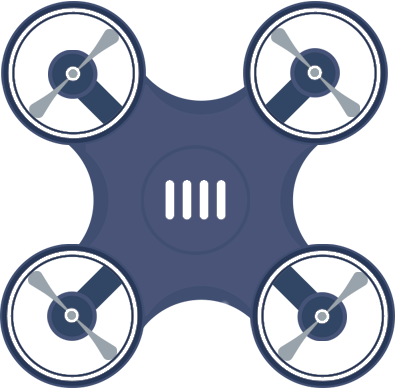
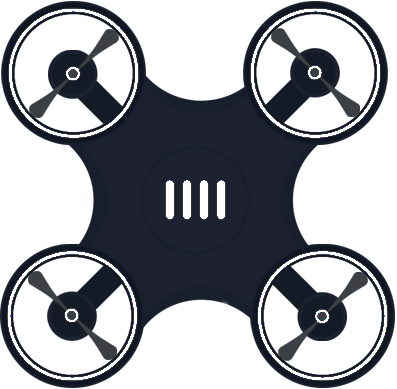
1.项目详情界面 经纬度路径错误提示 2.修改无人机图片

diff --git a/src/application/control/ImageListController.java b/src/application/control/ImageListController.java
@@ -115,6 +115,17 @@ public class ImageListController implements Initializable {
 		close.addEventFilter(MouseDragEvent.MOUSE_PRESSED, new EventHandler<Event>() {
 			@Override
 			public void handle(Event event) {
+				int locationFrom = project.getLocationFrom();
+				if (locationFrom == 1) {
+					String locationPath = project.getProjectLocationFile();
+					File locationFile = new File(locationPath);
+					if (locationPath == null || "".equals(locationPath) || locationFile == null
+							|| !locationFile.exists()) {
+						ToastUtil.toast("经纬度文件路径无效");
+						event.consume();
+						return;
+					}
+				}
 				project.setProjectName(textField_projectName.getText());
 				SaveProjectsUtil.changeProjectData(project, null);
 				if (callBack != null) {

diff --git a/src/application/control/FlightLineController.java b/src/application/control/FlightLineController.java
@@ -51,7 +51,7 @@ public class FlightLineController implements Initializable {
 	private Image imageFocus = new Image(getClass().getResourceAsStream("/resources/camera-fill-focus.png"), 14, 14,
 			false, false);
 	private Image imageTarget = new Image(getClass().getResourceAsStream("/resources/flight.png"), 25, 25, false,
-			false);
+			true);
 	private double centerOffsetX, centerOffsetY;
 
 	@Override
